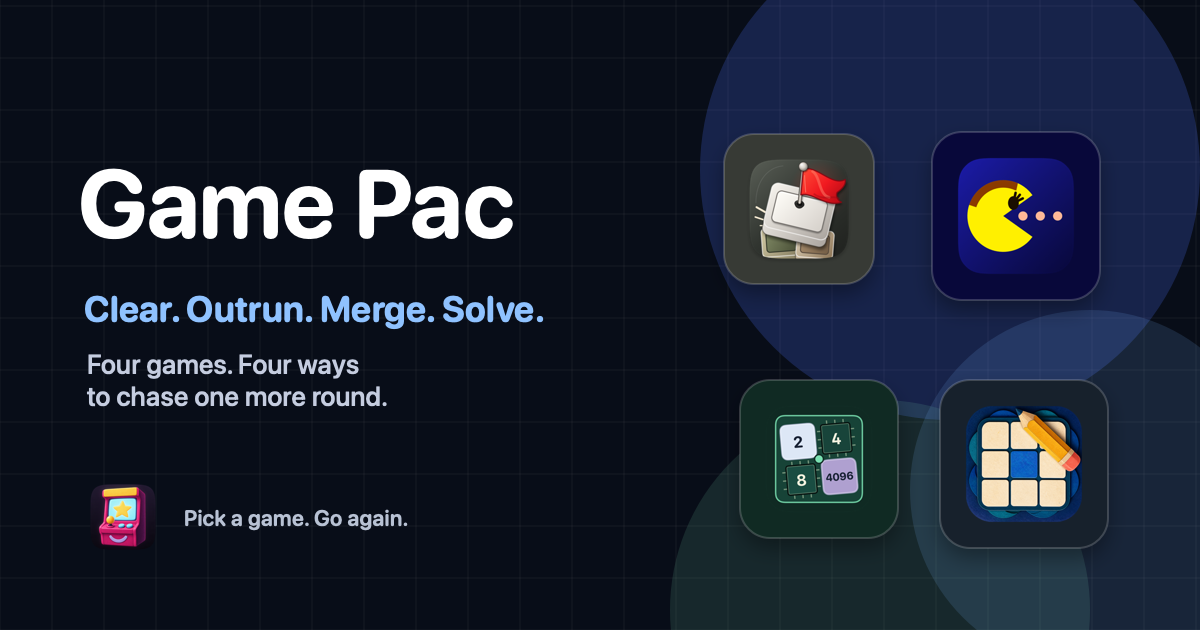
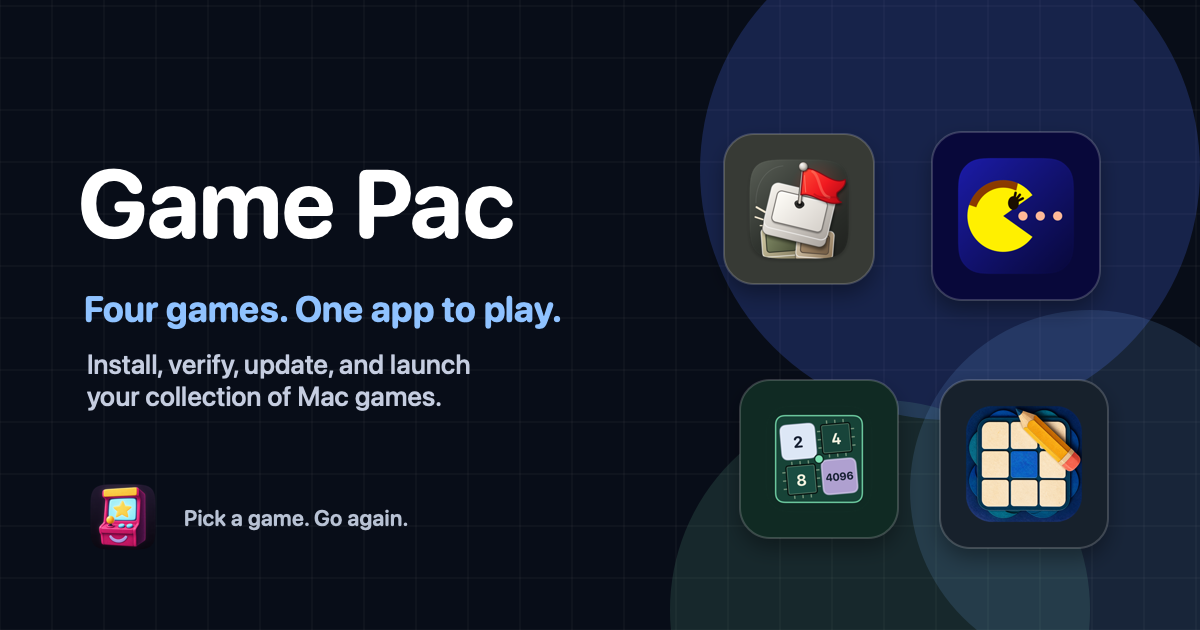
Polish the launcher-first homepage

Changed region(s): [[0.0617, 0.4524, 0.4625, 0.6635]]

diff --git a/index.html b/index.html
@@ -4,29 +4,29 @@
     <meta charset="utf-8">
     <meta name="viewport" content="width=device-width, initial-scale=1">
     <meta name="color-scheme" content="light dark">
-    <title>Game Pac — Clear. Outrun. Merge. Solve.</title>
+    <title>Game Pac — Four games. One app to play.</title>
     <meta
       name="description"
-      content="Clear minefields, outrun four pursuers, build bigger tiles, and solve number grids in four games for Mac."
+      content="Meet Mine Sweeper, Dottie, Tilly, and Suki. The Game Pac app installs, verifies, updates, and launches your collection of Mac games."
     >
     <meta property="og:type" content="website">
     <meta property="og:url" content="https://game-pac.com/">
     <meta property="og:site_name" content="Game Pac">
-    <meta property="og:title" content="Game Pac — Clear. Outrun. Merge. Solve.">
+    <meta property="og:title" content="Game Pac — Four games. One app to play.">
     <meta
       property="og:description"
-      content="Clear the board. Outrun the chase. Build the next big tile. Solve the grid."
+      content="Meet Mine Sweeper, Dottie, Tilly, and Suki. The Game Pac app installs, verifies, updates, and launches your collection of Mac games."
     >
     <meta property="og:image" content="https://game-pac.com/assets/og-game-pac.png">
     <meta property="og:image:type" content="image/png">
     <meta property="og:image:width" content="1200">
     <meta property="og:image:height" content="630">
-    <meta property="og:image:alt" content="Game Pac arcade-cabinet mark with the Mine Sweeper, Dottie, Tilly, and Suki game icons">
+    <meta property="og:image:alt" content="Game Pac arcade mark with Mine Sweeper, Dottie, Tilly, and Suki icons. Four games. One app to play. Install, verify, update, and launch your collection.">
     <meta name="twitter:card" content="summary_large_image">
-    <meta name="twitter:title" content="Game Pac — Clear. Outrun. Merge. Solve.">
-    <meta name="twitter:description" content="Clear the board. Outrun the chase. Build the next big tile. Solve the grid.">
+    <meta name="twitter:title" content="Game Pac — Four games. One app to play.">
+    <meta name="twitter:description" content="Meet Mine Sweeper, Dottie, Tilly, and Suki. The Game Pac app installs, verifies, updates, and launches your collection of Mac games.">
     <meta name="twitter:image" content="https://game-pac.com/assets/og-game-pac.png">
-    <meta name="twitter:image:alt" content="Game Pac arcade-cabinet mark with the Mine Sweeper, Dottie, Tilly, and Suki game icons">
+    <meta name="twitter:image:alt" content="Game Pac arcade mark with Mine Sweeper, Dottie, Tilly, and Suki icons. Four games. One app to play. Install, verify, update, and launch your collection.">
     <meta name="theme-color" content="#f7f6fb" media="(prefers-color-scheme: light)">
     <meta name="theme-color" content="#090f20" media="(prefers-color-scheme: dark)">
     <link rel="canonical" href="https://game-pac.com/">
@@ -46,9 +46,9 @@
         <span>Game Pac</span>
       </a>
       <nav aria-label="Primary navigation">
+        <a class="button button-primary" href="#launcher-download">Get the app</a>
         <a href="#games">Games</a>
         <a href="#collection">One More Round</a>
-        <a class="button button-primary" href="#launcher-download">Download Game Pac</a>
       </nav>
     </header>
 
@@ -64,16 +64,10 @@
       <section class="launcher-section" id="launcher" aria-labelledby="launcher-title">
         <div class="launcher-heading">
           <div class="launcher-copy">
-            <p class="eyebrow">Game Pac for Mac</p>
+            <p class="eyebrow">Your next round starts here</p>
             <h2 id="launcher-title">Your collection.<br>One place to play.</h2>
             <p class="launcher-description">
               One app installs, verifies, updates, and launches them all. You pick what to play next.
-            </p>
-            <p class="launcher-roster">
-              Available individually: <a href="#minesweeper">Mine Sweeper</a>,
-              <a href="#dottie">Dottie</a>, <a href="#tilly">Tilly</a>, and
-              <a href="#suki">Suki</a>.
-              <span>Shatranj · coming soon.</span>
             </p>
           </div>
 
@@ -92,11 +86,21 @@
           <!-- END LAUNCHER RELEASE -->
         </div>
 
+        <p class="launcher-roster">
+          Available individually: <a href="#minesweeper">Mine Sweeper</a>,
+          <a href="#dottie">Dottie</a>, <a href="#tilly">Tilly</a>, and
+          <a href="#suki">Suki</a>; Shatranj coming soon.
+        </p>
+        <nav class="mobile-nav" aria-label="Explore Game Pac">
+          <a href="#games">Games</a>
+          <a href="#collection">One More Round</a>
+        </nav>
+
         <figure class="launcher-preview launcher-preview-main">
+          <figcaption>Inside the Game Pac app: your collection, ready for the next round. ARCADE theme preview; versions and statuses shown are examples.</figcaption>
           <img src="./assets/launcher-arcade.jpg"
             alt="Game Pac in the ARCADE theme, with Dottie featured, Mine Sweeper, Tilly and Suki ready to play, and Shatranj marked coming soon"
             width="1440" height="880" fetchpriority="high" decoding="async">
-          <figcaption>One collection, ready for your next round. ARCADE theme preview; versions and statuses shown are examples.</figcaption>
         </figure>
         <div class="launcher-preview-grid">
           <figure class="launcher-preview">
@@ -157,7 +161,7 @@
             <div class="game-actions">
               <a class="button button-primary" href="./downloads/MineSweeper-1.1.6.dmg" download>Download Mine Sweeper</a>
             </div>
-            <p class="requirements">macOS 14 or later</p>
+            <p class="requirements">macOS 14.0 or later</p>
           </div>
         </article>
 
@@ -197,7 +201,7 @@
             <div class="game-actions">
               <a class="button button-primary" href="./downloads/Dottie-1.1.5.dmg" download>Download Dottie</a>
             </div>
-            <p class="requirements">macOS 14 or later</p>
+            <p class="requirements">macOS 14.0 or later</p>
           </div>
         </article>
 
@@ -237,7 +241,7 @@
             <div class="game-actions">
               <a class="button button-primary" href="./downloads/Tilly-1.0.4.dmg" download>Download Tilly</a>
             </div>
-            <p class="requirements">macOS 14 or later</p>
+            <p class="requirements">macOS 14.0 or later</p>
           </div>
         </article>
 
@@ -277,7 +281,7 @@
             <div class="game-actions">
               <a class="button button-primary" href="./downloads/Suki-1.0.2.dmg" download>Download Suki</a>
             </div>
-            <p class="requirements">macOS 14 or later</p>
+            <p class="requirements">macOS 14.0 or later</p>
           </div>
         </article>
       </section>
@@ -319,11 +323,11 @@
         <p>Copyright © 2026 Panduranga Shenoy Kudige. All rights reserved.</p>
       </div>
       <nav aria-label="Games and the Game Pac app">
+        <a href="#launcher">Game Pac app</a>
         <a href="#minesweeper">Mine Sweeper</a>
         <a href="#dottie">Dottie</a>
         <a href="#tilly">Tilly</a>
         <a href="#suki">Suki</a>
-        <a href="#launcher">Game Pac app</a>
       </nav>
     </footer>
   </body>

diff --git a/style.css b/style.css
@@ -84,6 +84,10 @@ a:focus-visible,
   border-radius: 10px;
 }
 
+.site-header nav a:focus-visible {
+  border-radius: 999px;
+}
+
 .skip-link {
   position: fixed;
   z-index: 200;
@@ -671,7 +675,7 @@ h3 {
   grid-template-columns: minmax(0, 1fr) minmax(240px, 0.55fr);
   align-items: center;
   gap: clamp(24px, 4vw, 48px);
-  margin-bottom: 32px;
+  margin-bottom: 24px;
 }
 
 .launcher-copy h2 {
@@ -684,15 +688,13 @@ h3 {
 }
 
 .launcher-roster {
-  margin-bottom: 0;
+  margin: 0 0 28px;
   color: var(--muted);
   font-size: 15px;
 }
 
-.launcher-roster span {
-  display: block;
-  margin-top: 8px;
-  font-weight: 700;
+.mobile-nav {
+  display: none;
 }
 
 .launcher-download {
@@ -751,6 +753,10 @@ h3 {
   color: var(--muted);
   font-size: 14px;
   line-height: 1.5;
+}
+
+.launcher-preview-main figcaption {
+  margin: 0 0 12px;
 }
 
 .launcher-preview figcaption strong {
@@ -901,6 +907,12 @@ footer nav a:hover {
   }
 }
 
+@media (max-width: 900px) {
+  .launcher-heading {
+    grid-template-columns: 1fr;
+  }
+}
+
 @media (max-width: 680px) {
   body {
     font-size: 16px;
@@ -913,28 +925,23 @@ footer nav a:hover {
   }
 
   .site-header {
-    min-height: 74px;
-    flex-direction: column;
-    align-items: stretch;
-    gap: 6px;
-    padding-block: 12px;
+    min-height: 68px;
+    gap: 16px;
   }
 
   .site-header nav {
-    display: flex;
     gap: 6px;
   }
 
-  .site-header nav a {
-    padding: 8px;
-    font-size: 13px;
+  .site-header nav a:not(.button) {
+    display: none;
   }
 
   .site-header nav a.button-primary {
     width: auto;
     flex: 0 0 auto;
-    margin-left: auto;
     padding: 8px 12px;
+    font-size: 13px;
   }
 
   #main-content,
@@ -943,11 +950,21 @@ footer nav a:hover {
   .collection-strip,
   .launcher-section,
   .launcher-download {
-    scroll-margin-top: 184px;
+    scroll-margin-top: 80px;
   }
 
   h1 {
-    font-size: clamp(34px, 10vw, 48px);
+    margin-bottom: 12px;
+    font-size: clamp(30px, 9vw, 44px);
+  }
+
+  .welcome-section {
+    padding: 16px 0 14px;
+  }
+
+  .welcome-intro {
+    font-size: 16px;
+    line-height: 1.5;
   }
 
   .section-heading {
@@ -1011,8 +1028,9 @@ footer nav a:hover {
   }
 
   .launcher-section {
+    margin-top: 14px;
     margin-bottom: 76px;
-    padding: 28px 16px;
+    padding: 20px 14px;
     border-radius: 27px;
   }
 
@@ -1021,8 +1039,58 @@ footer nav a:hover {
     grid-template-columns: 1fr;
   }
 
+  .launcher-heading {
+    gap: 20px;
+    margin-bottom: 18px;
+  }
+
+  .launcher-copy h2 {
+    margin-bottom: 12px;
+    font-size: 28px;
+  }
+
+  .launcher-description {
+    margin-bottom: 0;
+    font-size: 16px;
+    line-height: 1.5;
+  }
+
+  .launcher-roster {
+    margin-bottom: 16px;
+    font-size: 14px;
+  }
+
+  .mobile-nav {
+    display: flex;
+    flex-wrap: wrap;
+    gap: 10px;
+    margin: 0 0 24px;
+  }
+
+  .mobile-nav a {
+    min-height: 44px;
+    display: inline-flex;
+    align-items: center;
+    padding: 8px 16px;
+    border: 1px solid var(--line);
+    border-radius: 999px;
+    color: var(--muted);
+    font-size: 14px;
+    font-weight: 750;
+    text-decoration: none;
+  }
+
+  .mobile-nav a:hover {
+    color: var(--ink);
+    background: var(--surface-soft);
+  }
+
   .launcher-download {
-    padding: 20px;
+    padding: 18px;
+  }
+
+  .launcher-download .release-chip {
+    margin-bottom: 14px;
   }
 
   footer {

diff --git a/Scripts/render-brand.swift b/Scripts/render-brand.swift
@@ -190,9 +190,16 @@ let social = makePNG(width: 1200, height: 630) { rect in
         .font: roundedFont(size: 96, weight: .bold),
         .foregroundColor: NSColor.white
     ]
+    let hookColor = NSColor(srgbRed: 143.0 / 255.0, green: 194.0 / 255.0, blue: 1, alpha: 1)
+    var hookSize: CGFloat = 36
+    let hookText = "Four games. One app to play."
+    while hookSize > 24,
+          (hookText as NSString).size(withAttributes: [.font: roundedFont(size: hookSize, weight: .bold)]).width > 620 {
+        hookSize -= 1
+    }
     let hookStyle: [NSAttributedString.Key: Any] = [
-        .font: roundedFont(size: 36, weight: .bold),
-        .foregroundColor: NSColor(srgbRed: 143.0 / 255.0, green: 194.0 / 255.0, blue: 1, alpha: 1)
+        .font: roundedFont(size: hookSize, weight: .bold),
+        .foregroundColor: hookColor
     ]
     let captionStyle: [NSAttributedString.Key: Any] = [
         .font: NSFont.systemFont(ofSize: 27, weight: .medium),
@@ -200,8 +207,8 @@ let social = makePNG(width: 1200, height: 630) { rect in
     ]
 
     NSString(string: "Game Pac").draw(at: NSPoint(x: 78, y: 372), withAttributes: titleStyle)
-    NSString(string: "Clear. Outrun. Merge. Solve.").draw(at: NSPoint(x: 84, y: 300), withAttributes: hookStyle)
-    NSString(string: "Four games. Four ways\nto chase one more round.").draw(
+    NSString(string: hookText).draw(at: NSPoint(x: 84, y: 300), withAttributes: hookStyle)
+    NSString(string: "Install, verify, update, and launch\nyour collection of Mac games.").draw(
         in: NSRect(x: 87, y: 190, width: 570, height: 92),
         withAttributes: captionStyle
     )
